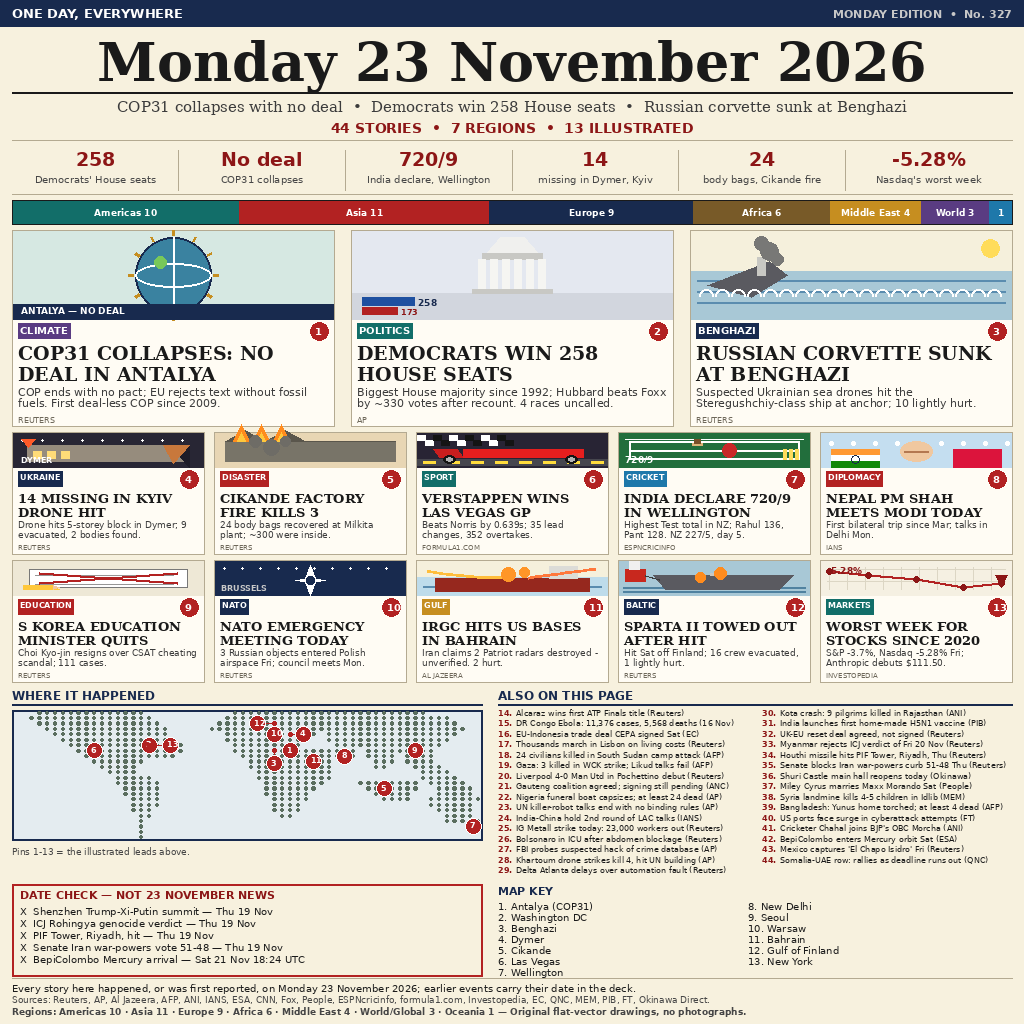
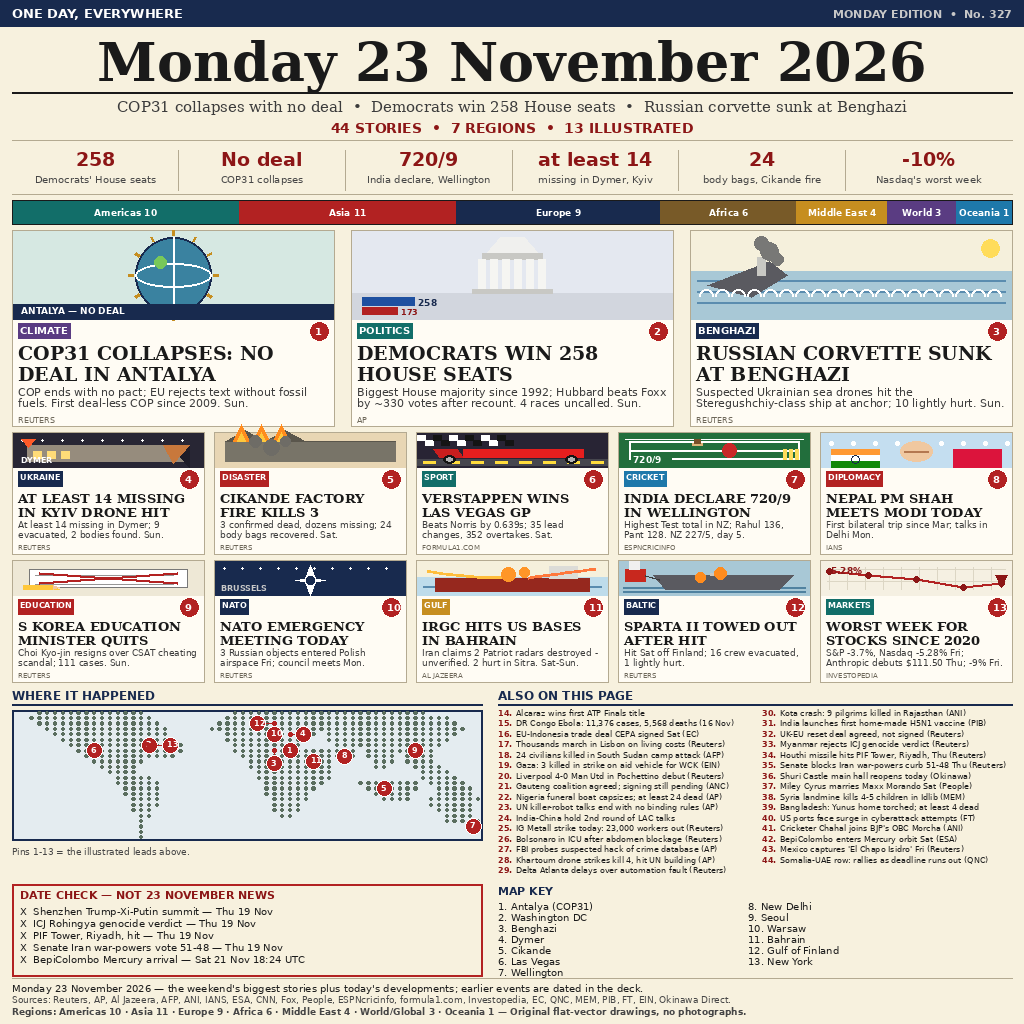
news-image-20261123: fix pass — QA RETRY-SEKALI + Red Team REVISION REQUIRED
- B33: drop wrong 'Fri 20 Nov' from ICJ verdict (verdict Thu 19 Nov)
- Footer: rewrite honesty claim; date-tag lead decks 1,2,3,4,5,6,9,11 (Sat/Sun)
- Strip: Nasdaq weekly move -10% (was -5.28% Fri figure); Dymer 'at least 14'
- Cikande deck: '3 confirmed dead, dozens missing; 24 body bags recovered'
- Gulf deck: '2 hurt in Sitra'; card 13: Anthropic '-9% Fri'
- Card 7 art: '720/9' moved inside pitch box, backed with field green
- Region bar: min 56px segment so 'Oceania 1' label fits
- Briefs 14/19/24/39: attributions matched to research-note sources;
  B19 WCK wording fixed (aid vehicle for WCK, not affiliated)
- Re-rendered compose.py 2x + main.ts 2x, all byte-identical
  sha256 entry.png 27433e2a0ef5d8de287007074f7b63986d4d1f48f7c55e57f69c7daac5c14882

diff --git a/stories.py b/stories.py
@@ -19,29 +19,29 @@ LEADS = [
     (1, "World/Global", "Climate", "CLIMATE",
      "COP31 COLLAPSES: NO DEAL IN ANTALYA",
      "COP ends with no pact; EU rejects text without fossil fuels. "
-     "First deal-less COP since 2009.",
+     "First deal-less COP since 2009. Sun.",
      "Reuters", "cop"),
     (2, "Americas", "Politics", "POLITICS",
      "DEMOCRATS WIN 258 HOUSE SEATS",
      "Biggest House majority since 1992; Hubbard beats Foxx by ~330 "
-     "votes after recount. 4 races uncalled.",
+     "votes after recount. 4 races uncalled. Sun.",
      "AP", "capitol"),
     (3, "Europe", "War", "BENGHAZI",
      "RUSSIAN CORVETTE SUNK AT BENGHAZI",
      "Suspected Ukrainian sea drones hit the Steregushchiy-class ship "
-     "at anchor; 10 lightly hurt.",
+     "at anchor; 10 lightly hurt. Sun.",
      "Reuters", "sunk"),
     (4, "Europe", "War", "UKRAINE",
-     "14 MISSING IN KYIV DRONE HIT",
-     "Drone hits 5-storey block in Dymer; 9 evacuated, 2 bodies found.",
+     "AT LEAST 14 MISSING IN KYIV DRONE HIT",
+     "At least 14 missing in Dymer; 9 evacuated, 2 bodies found. Sun.",
      "Reuters", "flats"),
     (5, "Asia", "Disasters", "DISASTER",
      "CIKANDE FACTORY FIRE KILLS 3",
-     "24 body bags recovered at Milkita plant; ~300 were inside.",
+     "3 confirmed dead, dozens missing; 24 body bags recovered. Sat.",
      "Reuters", "fire"),
     (6, "Americas", "Sport", "SPORT",
      "VERSTAPPEN WINS LAS VEGAS GP",
-     "Beats Norris by 0.639s; 35 lead changes, 352 overtakes.",
+     "Beats Norris by 0.639s; 35 lead changes, 352 overtakes. Sat.",
      "formula1.com", "race"),
     (7, "Oceania", "Sport", "CRICKET",
      "INDIA DECLARE 720/9 IN WELLINGTON",
@@ -53,7 +53,7 @@ LEADS = [
      "IANS", "flags"),
     (9, "Asia", "Politics", "EDUCATION",
      "S KOREA EDUCATION MINISTER QUITS",
-     "Choi Kyo-jin resigns over CSAT cheating scandal; 111 cases.",
+     "Choi Kyo-jin resigns over CSAT cheating scandal; 111 cases. Sun.",
      "Reuters", "exam"),
     (10, "Europe", "Politics", "NATO",
      "NATO EMERGENCY MEETING TODAY",
@@ -61,7 +61,7 @@ LEADS = [
      "Reuters", "shield"),
     (11, "Middle East", "War", "GULF",
      "IRGC HITS US BASES IN BAHRAIN",
-     "Iran claims 2 Patriot radars destroyed - unverified. 2 hurt.",
+     "Iran claims 2 Patriot radars destroyed - unverified. 2 hurt in Sitra. Sat-Sun.",
      "Al Jazeera", "gulf"),
     (12, "Europe", "War", "BALTIC",
      "SPARTA II TOWED OUT AFTER HIT",
@@ -69,7 +69,7 @@ LEADS = [
      "Reuters", "tow"),
     (13, "Americas", "Economy", "MARKETS",
      "WORST WEEK FOR STOCKS SINCE 2020",
-     "S&P -3.7%, Nasdaq -5.28% Fri; Anthropic debuts $111.50.",
+     "S&P -3.7%, Nasdaq -5.28% Fri; Anthropic debuts $111.50 Thu; -9% Fri.",
      "Investopedia", "chart"),
 ]
 
@@ -77,17 +77,17 @@ LEADS = [
 # One line at 8px in a ~232px column holds ~52 chars; the renderer fails
 # loudly if any brief exceeds it, so these are kept short on purpose.
 BRIEFS = [
-    (14, "Europe", "Sport", "Alcaraz wins first ATP Finals title (Reuters)"),
+    (14, "Europe", "Sport", "Alcaraz wins first ATP Finals title"),
     (15, "Africa", "Health", "DR Congo Ebola: 11,376 cases, 5,568 deaths (16 Nov)"),
     (16, "Asia", "Economy", "EU-Indonesia trade deal CEPA signed Sat (EC)"),
     (17, "Europe", "Politics", "Thousands march in Lisbon on living costs (Reuters)"),
     (18, "Africa", "War", "24 civilians killed in South Sudan camp attack (AFP)"),
-    (19, "Middle East", "War", "Gaza: 3 killed in WCK strike; Likud talks fail (AFP)"),
+    (19, "Middle East", "War", "Gaza: 3 killed in strike on aid vehicle for WCK (EIN)"),
     (20, "Europe", "Sport", "Liverpool 4-0 Man Utd in Pochettino debut (Reuters)"),
     (21, "Africa", "Politics", "Gauteng coalition agreed; signing still pending (ANC)"),
     (22, "Africa", "Disasters", "Nigeria funeral boat capsizes; at least 24 dead (AP)"),
     (23, "World/Global", "War", "UN killer-robot talks end with no binding rules (AP)"),
-    (24, "Asia", "Politics", "India-China hold 2nd round of LAC talks (IANS)"),
+    (24, "Asia", "Politics", "India-China hold 2nd round of LAC talks"),
     (25, "Europe", "Labour", "IG Metall strike today: 23,000 workers out (Reuters)"),
     (26, "Americas", "Politics", "Bolsonaro in ICU after abdomen blockage (Reuters)"),
     (27, "Americas", "Tech", "FBI probes suspected hack of crime database (AP)"),
@@ -96,13 +96,13 @@ BRIEFS = [
     (30, "Asia", "Disasters", "Kota crash: 9 pilgrims killed in Rajasthan (ANI)"),
     (31, "Asia", "Health", "India launches first home-made H5N1 vaccine (PIB)"),
     (32, "Europe", "Politics", "UK-EU reset deal agreed, not signed (Reuters)"),
-    (33, "Asia", "Politics", "Myanmar rejects ICJ verdict of Fri 20 Nov (Reuters)"),
+    (33, "Asia", "Politics", "Myanmar rejects ICJ genocide verdict (Reuters)"),
     (34, "Middle East", "War", "Houthi missile hits PIF Tower, Riyadh, Thu (Reuters)"),
     (35, "Americas", "Politics", "Senate blocks Iran war-powers curb 51-48 Thu (Reuters)"),
     (36, "Asia", "Culture", "Shuri Castle main hall reopens today (Okinawa)"),
     (37, "Americas", "Society", "Miley Cyrus marries Maxx Morando Sat (People)"),
     (38, "Middle East", "War", "Syria landmine kills 4-5 children in Idlib (MEM)"),
-    (39, "Asia", "Politics", "Bangladesh: Yunus home torched; at least 4 dead (AFP)"),
+    (39, "Asia", "Politics", "Bangladesh: Yunus home torched; at least 4 dead"),
     (40, "Americas", "Tech", "US ports face surge in cyberattack attempts (FT)"),
     (41, "Asia", "Sport", "Cricketer Chahal joins BJP's OBC Morcha (ANI)"),
     (42, "World/Global", "Space", "BepiColombo enters Mercury orbit Sat (ESA)"),
@@ -126,4 +126,4 @@ DATE_CHECK = [
 
 SOURCES_LINE = ("Sources: Reuters, AP, Al Jazeera, AFP, ANI, IANS, ESA, "
                 "CNN, Fox, People, ESPNcricinfo, formula1.com, "
-                "Investopedia, EC, QNC, MEM, PIB, FT, Okinawa Direct.")
+                "Investopedia, EC, QNC, MEM, PIB, FT, EIN, Okinawa Direct.")

diff --git a/compose.py b/compose.py
@@ -260,7 +260,8 @@ def art_cricket(d, x, y, w, h):
               fill=(200, 40, 40))
     for sx in (x + w - 26, x + w - 20, x + w - 14):
         d.rectangle([sx, y + h - 18, sx + 3, y + h - 8], fill=(255, 220, 90))
-    d.text((x + 6, y + h - 13), "720/9", font=sans_b(9), fill=(255, 255, 255))
+    d.rectangle([x + 12, y + h - 14, x + 52, y + h - 1], fill=(34, 110, 60))
+    d.text((x + 14, y + h - 13), "720/9", font=sans_b(9), fill=(255, 255, 255))
 
 
 def art_flags(d, x, y, w, h):
@@ -540,9 +541,9 @@ def paint_numbers(d):
         ("258", "Democrats' House seats"),
         ("No deal", "COP31 collapses"),
         ("720/9", "India declare, Wellington"),
-        ("14", "missing in Dymer, Kyiv"),
+        ("at least 14", "missing in Dymer, Kyiv"),
         ("24", "body bags, Cikande fire"),
-        ("-5.28%", "Nasdaq's worst week"),
+        ("-10%", "Nasdaq's worst week"),
     ]
     y0, y1 = 146, 194
     cw = CONTENT_W / 6.0
@@ -562,10 +563,18 @@ def paint_numbers(d):
 def paint_region_bar(d, counts):
     y0, y1 = 200, 224
     total = sum(counts.values())
+    widths = {r: CONTENT_W * counts[r] / total for r in REGION_ORDER}
+    # Minimum segment width so the smallest label ("Oceania 1", ~50px at
+    # 9px bold) fits; the deficit comes off the largest segment.
+    min_w = 56.0
+    for r in REGION_ORDER:
+        if widths[r] < min_w:
+            widths[max(widths, key=lambda k: widths[k])] -= min_w - widths[r]
+            widths[r] = min_w
     x = MARGIN
     for region in REGION_ORDER:
         n = counts[region]
-        seg = CONTENT_W * n / total
+        seg = widths[region]
         d.rectangle([x, y0, x + seg, y1], fill=REGION_COLOURS[region])
         label = "%s %d" % (REGION_SHORT.get(region, region), n)
         f = sans_b(9)
@@ -664,8 +673,8 @@ def paint_date_check(d, x, y, w, h):
 def paint_footer(d, y):
     d.line([MARGIN, y, W - MARGIN, y], fill=LINE, width=1)
     d.text((MARGIN, y + 4),
-           "Every story here happened, or was first reported, on Monday "
-           "23 November 2026; earlier events carry their date in the deck.",
+           "Monday 23 November 2026 \u2014 the weekend's biggest stories "
+           "plus today's developments; earlier events are dated in the deck.",
            font=sans(10), fill=INK)
     d.text((MARGIN, y + 16), SOURCES_LINE, font=sans(9), fill=(70, 70, 70))
     d.text((MARGIN, y + 28),
